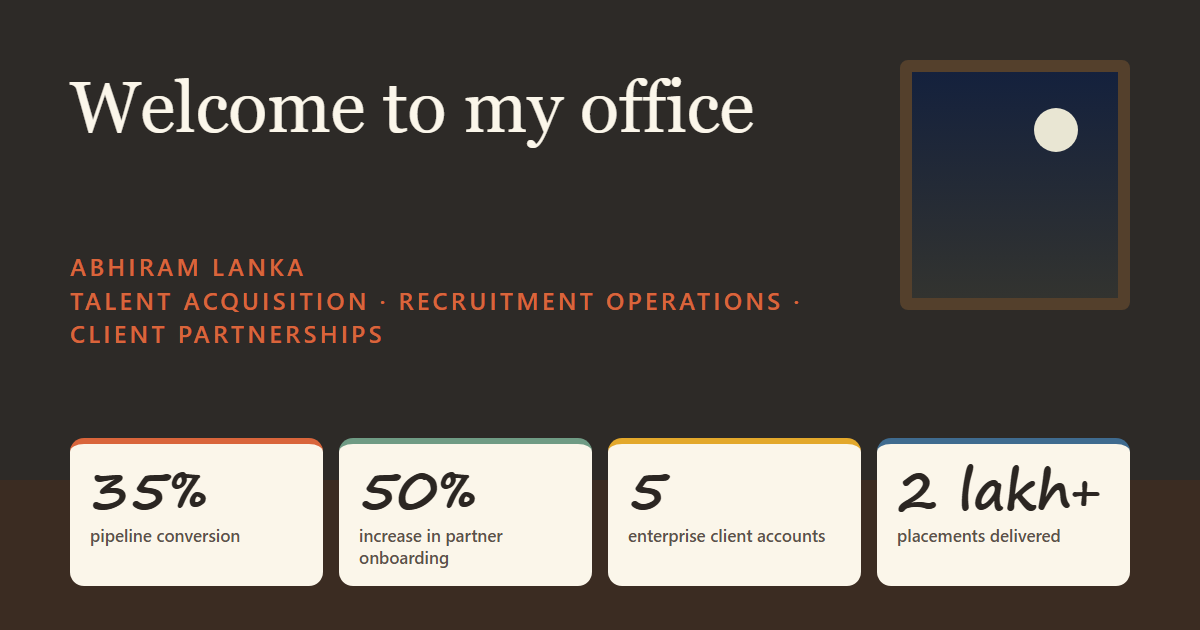
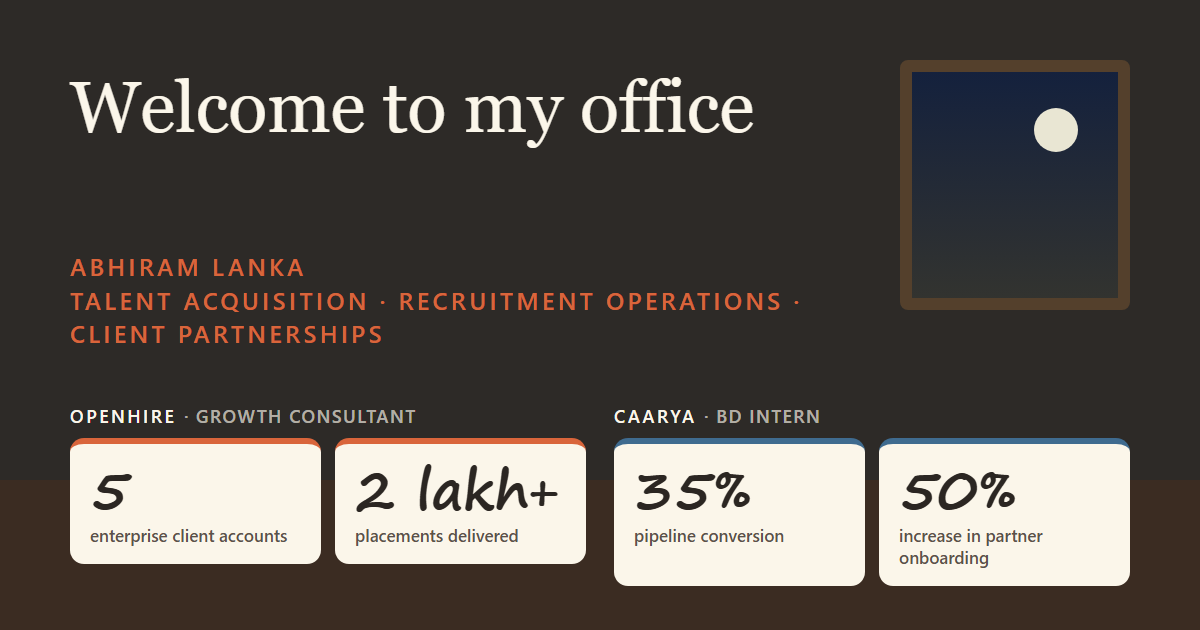
Show results per company instead of merged

Changed region(s): [[0.0617, 0.6333, 0.925, 0.9349], [0.0617, 0.754, 0.185, 0.8143]]

diff --git a/src/styles.css b/src/styles.css
@@ -40,7 +40,7 @@ body { font-family: var(--font-sans); background: var(--wall); color: var(--pape
 .pill { font: 600 12px/1 var(--font-sans); letter-spacing: .12em; text-transform: uppercase; color: inherit; background: var(--pill-bg); border: 1px solid currentColor; border-radius: 999px; padding: 14px 20px; cursor: pointer; backdrop-filter: blur(6px); }
 .pill:hover { background: var(--accent); color: #fff; border-color: var(--accent); }
 
-.welcome { position: absolute; left: 32px; bottom: 22px; max-width: 520px; z-index: 4; pointer-events: none; }
+.welcome { position: absolute; left: 32px; bottom: 22px; max-width: 480px; z-index: 4; pointer-events: none; }
 .welcome h1 { font: 400 clamp(28px, 4vw, 40px)/1.05 var(--font-serif); margin: 0 0 8px; }
 .welcome p { font-size: 13px; line-height: 1.5; margin: 0 0 10px; opacity: .85; }
 .count { font-size: 11px; letter-spacing: .16em; opacity: .7; }
@@ -88,13 +88,17 @@ body { font-family: var(--font-sans); background: var(--wall); color: var(--pape
 .pill.icon { padding: 13px 14px; }
 .pill:focus-visible, .explore button:focus-visible { outline: 2px solid var(--mustard); outline-offset: 3px; }
 
-.hero { position: absolute; left: 580px; right: 32px; bottom: 22px; z-index: 4; display: grid; grid-template-columns: repeat(4, 1fr); gap: 10px; list-style: none; margin: 0; padding: 0; }
-.hero li { background: var(--paper); color: var(--ink); border-radius: 10px; padding: 12px 14px 11px; box-shadow: 0 6px 16px rgba(0,0,0,.18); border-top: 4px solid var(--accent); }
-.hero li:nth-child(2) { border-top-color: var(--sage); }
-.hero li:nth-child(3) { border-top-color: var(--mustard); }
-.hero li:nth-child(4) { border-top-color: var(--blue); }
+.hero { position: absolute; left: 540px; right: 32px; bottom: 22px; z-index: 4; display: grid; grid-template-columns: 1fr 1fr; gap: 14px; }
+.hero h2 { margin: 0 0 6px; font: 600 11px/1 var(--font-sans); letter-spacing: .14em; text-transform: uppercase; }
+.hero h2 span { font-weight: 500; opacity: .7; letter-spacing: .08em; }
+@media (max-width: 1280px) { .hero h2 span { display: none; } }
+.hero ul { list-style: none; margin: 0; padding: 0; display: grid; grid-template-columns: 1fr 1fr; gap: 8px; }
+.hero li { background: var(--paper); color: var(--ink); border-radius: 10px; padding: 11px 14px 10px; box-shadow: 0 6px 16px rgba(0,0,0,.18); border-top: 4px solid var(--accent); }
+.hero section:nth-child(2) li { border-top-color: var(--blue); }
 .hero strong { display: block; font: 600 clamp(22px, 2.6vw, 34px)/1 "Caveat", cursive; color: var(--ink); }
-.hero span { display: block; margin-top: 4px; font-size: 11px; line-height: 1.3; color: var(--ink-soft); }
+.hero li span { display: block; margin-top: 4px; font-size: 11px; line-height: 1.3; color: var(--ink-soft); }
+.panel h3.sub { font: 600 11px/1.3 var(--font-sans); letter-spacing: .14em; text-transform: uppercase; color: var(--ink-soft); margin: 26px 0 10px; padding-top: 18px; border-top: 1px solid #e2d6bd; }
+.panel h3.sub:first-of-type { margin-top: 0; padding-top: 0; border-top: 0; }
 .explore { display: none; }
 .pill .long { display: inline; }
 
@@ -107,7 +111,7 @@ body { font-family: var(--font-sans); background: var(--wall); color: var(--pape
 .quote figcaption { font-size: 12px; color: var(--ink-soft); }
 .quote .ph { display: inline-block; margin-bottom: 10px; font-size: 10px; letter-spacing: .14em; text-transform: uppercase; font-weight: 600; background: var(--mustard); color: var(--ink); padding: 3px 8px; border-radius: 999px; }
 
-@media (max-width: 1000px) and (min-width: 721px) {
+@media (max-width: 1100px) and (min-width: 721px) {
   .stage { bottom: 200px; }
   .hero { left: 32px; bottom: 112px; }
   .welcome { bottom: 16px; }
@@ -124,8 +128,9 @@ body { font-family: var(--font-sans); background: var(--wall); color: var(--pape
   .pill .long { display: none; }
   .welcome { position: static; order: 2; max-width: none; padding: 18px 16px 0; }
   .welcome p { display: block; font-size: 13px; }
-  .hero { position: static; order: 3; margin: 12px 16px 0; grid-template-columns: 1fr 1fr; }
+  .hero { position: static; order: 3; margin: 12px 16px 0; grid-template-columns: 1fr; gap: 12px; }
   .hero strong { font-size: 38px; }
+  .hero h2 span { display: inline; }
   .stage { position: static; order: 4; margin-top: 14px; }
   .scene { width: 100%; height: auto; }
   .explore { order: 5; display: flex; flex-wrap: wrap; gap: 8px; padding: 14px 16px 0; background: var(--floor); margin-top: -2px; padding-bottom: 20px; flex: 1; align-content: flex-start; }
@@ -138,7 +143,7 @@ body { font-family: var(--font-sans); background: var(--wall); color: var(--pape
   .role-top { flex-direction: column; gap: 2px; }
   .tip { display: none; }
 }
-@media (max-width: 380px) { .hero span { font-size: 10.5px; } .hero li { padding: 10px 11px; } }
+@media (max-width: 380px) { .hero li span { font-size: 10.5px; } .hero li { padding: 10px 11px; } }
 .cue { animation: cue 2.4s ease-in-out infinite; pointer-events: none; transform-box: fill-box; transform-origin: center; }
 @keyframes cue { 0%, 100% { opacity: 0; transform: scale(.85); } 50% { opacity: .75; transform: scale(1.1); } }
 .sr-only { position: absolute; width: 1px; height: 1px; padding: 0; margin: -1px; overflow: hidden; clip: rect(0 0 0 0); clip-path: inset(50%); white-space: nowrap; border: 0; }

diff --git a/src/content.ts b/src/content.ts
@@ -1,5 +1,6 @@
 export type Block =
   | { t: "p"; text: string }
+  | { t: "h"; text: string }
   | { t: "stats"; items: { n: string; l: string }[] }
   | { t: "list"; items: string[] }
   | { t: "tags"; items: string[] }
@@ -62,14 +63,28 @@ export const entries: Entry[] = [
     title: "Results, in numbers",
     menu: "Results",
     blocks: [
+      { t: "h", text: "OpenHire · Growth Consultant" },
       {
         t: "stats",
         items: [
-          { n: "35%", l: "pipeline conversion rate, campus partnership channel at Caarya" },
-          { n: "50%", l: "increase in partner onboarding at Caarya" },
-          { n: "5", l: "enterprise client accounts managed at OpenHire" },
+          { n: "5", l: "enterprise client accounts managed" },
           { n: "2 lakh+", l: "placements delivered" },
           { n: "10+", l: "industries covered with the founder" },
+        ],
+      },
+      {
+        t: "list",
+        items: [
+          "Reduced client hiring turnaround by restructuring sourcing channels and introducing pre-vetted candidate pipelines.",
+          "Run the recruiter team's daily requisition flow against a same-day closure SLA.",
+        ],
+      },
+      { t: "h", text: "Caarya · Business Development Manager (Internship)" },
+      {
+        t: "stats",
+        items: [
+          { n: "35%", l: "pipeline conversion rate, campus partnership channel" },
+          { n: "50%", l: "increase in partner onboarding" },
         ],
       },
       {
@@ -78,13 +93,6 @@ export const entries: Entry[] = [
         who: "Name Surname",
         role: "Title, Company",
         placeholder: true,
-      },
-      {
-        t: "list",
-        items: [
-          "Reduced client hiring turnaround by restructuring sourcing channels and introducing pre-vetted candidate pipelines.",
-          "Run the recruiter team's daily requisition flow against a same-day closure SLA.",
-        ],
       },
     ],
   },
@@ -378,10 +386,8 @@ export const byId = Object.fromEntries(entries.map((e) => [e.id, e])) as Record<
 // The lamp is discoverable too, but it toggles the light instead of opening a panel.
 // Headline proof points shown on the landing view (no clicks needed).
 export const hero = [
-  { n: "35%", l: "pipeline conversion" },
-  { n: "50%", l: "increase in partner onboarding" },
-  { n: "5", l: "enterprise client accounts" },
-  { n: "2 lakh+", l: "placements delivered" },
+  { org: "OpenHire", role: "Growth Consultant", items: [{ n: "5", l: "enterprise client accounts" }, { n: "2 lakh+", l: "placements delivered" }] },
+  { org: "Caarya", role: "BD Manager (Internship)", items: [{ n: "35%", l: "pipeline conversion" }, { n: "50%", l: "increase in partner onboarding" }] },
 ];
 
 export const EMAIL = "lankaabhiram16@gmail.com";

diff --git a/scripts/og.html b/scripts/og.html
@@ -6,17 +6,22 @@
 .win:after{content:"";position:absolute;right:40px;top:36px;width:44px;height:44px;border-radius:50%;background:#e9e6d3}
 h1{position:absolute;left:70px;top:70px;margin:0;font-weight:400;font-size:72px;line-height:1.05;width:760px}
 p.sub{position:absolute;left:70px;top:250px;margin:0;font:600 24px/1.4 system-ui,sans-serif;letter-spacing:.14em;text-transform:uppercase;color:#d9653b;width:760px}
-.cards{position:absolute;left:70px;right:70px;bottom:44px;display:flex;gap:16px}
-.c{flex:1;background:#fbf6ea;color:#2b2622;border-radius:14px;padding:18px 20px;border-top:6px solid #d9653b}
-.c:nth-child(2){border-color:#6f9b84}.c:nth-child(3){border-color:#e3a82b}.c:nth-child(4){border-color:#3f6b8f}
+.cards{position:absolute;left:70px;right:70px;bottom:44px;display:flex;gap:28px}
+.g{flex:1}.g>i{display:block;margin-bottom:10px;font:600 18px system-ui,sans-serif;letter-spacing:.14em;text-transform:uppercase;font-style:normal;color:#fbf6ea}
+.g>i em{font-weight:500;opacity:.65;font-style:normal;letter-spacing:.08em}
+.r{display:flex;gap:14px}
+.c{flex:1;min-height:122px;background:#fbf6ea;color:#2b2622;border-radius:14px;padding:18px 20px;border-top:6px solid #d9653b}
+.g+.g .c{border-color:#3f6b8f}
 .c b{display:block;font:700 54px/1 "Segoe Print","Comic Sans MS",cursive}.c span{display:block;margin-top:8px;font:500 17px/1.3 system-ui,sans-serif;color:#5b524a}
 </style>
 <div class="floor"></div><div class="win"></div>
 <h1>Welcome to my office</h1>
 <p class="sub">Abhiram Lanka<br>Talent Acquisition · Recruitment Operations · Client Partnerships</p>
 <div class="cards">
-<div class="c"><b>35%</b><span>pipeline conversion</span></div>
-<div class="c"><b>50%</b><span>increase in partner onboarding</span></div>
+<div class="g"><i>OpenHire <em>· Growth Consultant</em></i><div class="r">
 <div class="c"><b>5</b><span>enterprise client accounts</span></div>
-<div class="c"><b>2 lakh+</b><span>placements delivered</span></div>
+<div class="c"><b>2 lakh+</b><span>placements delivered</span></div></div></div>
+<div class="g"><i>Caarya <em>· BD Intern</em></i><div class="r">
+<div class="c"><b>35%</b><span>pipeline conversion</span></div>
+<div class="c"><b>50%</b><span>increase in partner onboarding</span></div></div></div>
 </div>

diff --git a/index.html b/index.html
@@ -11,14 +11,14 @@
     <meta property="og:type" content="website" />
     <meta property="og:url" content="__SITE_URL__/" />
     <meta property="og:title" content="Abhiram Lanka · Talent Acquisition &amp; Client Partnerships" />
-    <meta property="og:description" content="35% pipeline conversion, 50% more partner onboarding, 5 enterprise accounts, 2 lakh+ placements. Step into my office." />
+    <meta property="og:description" content="OpenHire: 5 enterprise accounts, 2 lakh+ placements. Caarya: 35% pipeline conversion, 50% more partner onboarding. Step into my office." />
     <meta property="og:image" content="__SITE_URL__/og.png" />
     <meta property="og:image:width" content="1200" />
     <meta property="og:image:height" content="630" />
     <meta property="og:image:alt" content="Abhiram Lanka — Talent Acquisition, Recruitment Operations and Client Partnerships" />
     <meta name="twitter:card" content="summary_large_image" />
     <meta name="twitter:title" content="Abhiram Lanka · Talent Acquisition &amp; Client Partnerships" />
-    <meta name="twitter:description" content="35% pipeline conversion, 50% more partner onboarding, 5 enterprise accounts, 2 lakh+ placements. Step into my office." />
+    <meta name="twitter:description" content="OpenHire: 5 enterprise accounts, 2 lakh+ placements. Caarya: 35% pipeline conversion, 50% more partner onboarding. Step into my office." />
     <meta name="twitter:image" content="__SITE_URL__/og.png" />
     <meta name="twitter:image:alt" content="Abhiram Lanka — Talent Acquisition, Recruitment Operations and Client Partnerships" />
     <script type="application/ld+json">

diff --git a/src/seo.ts b/src/seo.ts
@@ -6,6 +6,8 @@ const esc = (s: string) => s.replace(/&/g, "&amp;").replace(/</g, "&lt;").replac
 
 function block(b: Block): string {
   switch (b.t) {
+    case "h":
+      return `<h3>${esc(b.text)}</h3>`;
     case "p":
       return `<p>${esc(b.text)}</p>`;
     case "stats":
@@ -31,7 +33,7 @@ function block(b: Block): string {
 }
 
 export function renderStaticContent(): string {
-  const highlights = `<ul>${hero.map((h) => `<li><strong>${esc(h.n)}</strong> ${esc(h.l)}</li>`).join("")}</ul>`;
+  const highlights = hero.map((g) => `<h2>${esc(g.org)} — ${esc(g.role)}</h2><ul>${g.items.map((h) => `<li><strong>${esc(h.n)}</strong> ${esc(h.l)}</li>`).join("")}</ul>`).join("");
   const sections = entries
     .map((e) => `<section aria-labelledby="s-${e.id}"><h2 id="s-${e.id}">${esc(e.title)}</h2>${e.blocks.map(block).join("")}</section>`)
     .join("");

diff --git a/src/App.tsx b/src/App.tsx
@@ -107,11 +107,18 @@ export default function App() {
         <span className="count">{seen.size} OF {TOTAL} DISCOVERED</span>
       </section>
 
-      <ul className="hero" aria-label="Highlights">
-        {hero.map((h) => (
-          <li key={h.l}><strong>{h.n}</strong><span>{h.l}</span></li>
+      <div className="hero" role="group" aria-label="Highlights by company">
+        {hero.map((g) => (
+          <section key={g.org} aria-label={`${g.org}, ${g.role}`}>
+            <h2>{g.org}<span> · {g.role}</span></h2>
+            <ul>
+              {g.items.map((h) => (
+                <li key={h.l}><strong>{h.n}</strong><span>{h.l}</span></li>
+              ))}
+            </ul>
+          </section>
         ))}
-      </ul>
+      </div>
 
       <nav className="explore" aria-label="Explore the office">
         {entries.map((e) => (

diff --git a/src/Scene.tsx b/src/Scene.tsx
@@ -106,7 +106,7 @@ function Art() {
       <Obj id="results">
         <rect x="340" y="58" width="390" height="250" rx="6" fill="var(--frame-dark)" />
         <rect x="350" y="68" width="370" height="230" rx="3" fill="var(--paper)" />
-        <text x="372" y="108" className="hand" fontSize="30" fill="var(--accent)">THIS YEAR →</text>
+        <text x="372" y="108" className="hand" fontSize="30" fill="var(--accent)">AT CAARYA →</text>
         <text x="372" y="190" className="hand" fontSize="76" fill="var(--ink)">35%</text>
         <text x="372" y="226" className="hand" fontSize="22" fill="var(--ink-soft)">pipeline conversion</text>
         <text x="372" y="272" className="hand" fontSize="22" fill="var(--ink-soft)">+50% partner onboarding</text>

diff --git a/src/Panel.tsx b/src/Panel.tsx
@@ -31,6 +31,8 @@ export function Panel({ entry, onClose }: { entry: Entry; onClose: () => void })
           switch (b.t) {
             case "p":
               return <p key={i}>{b.text}</p>;
+            case "h":
+              return <h3 className="sub" key={i}>{b.text}</h3>;
             case "stats":
               return (
                 <div className="stats" key={i}>
